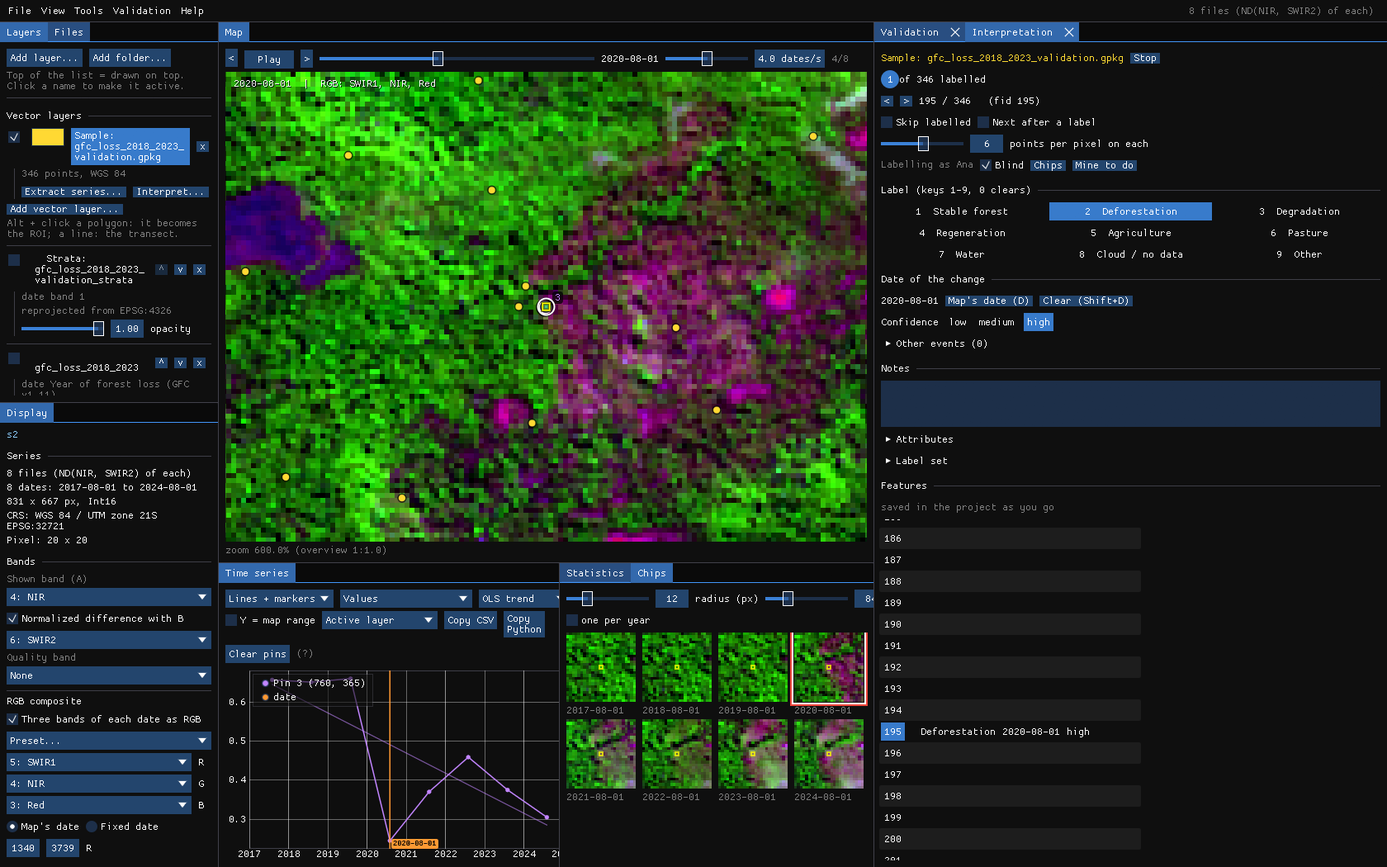
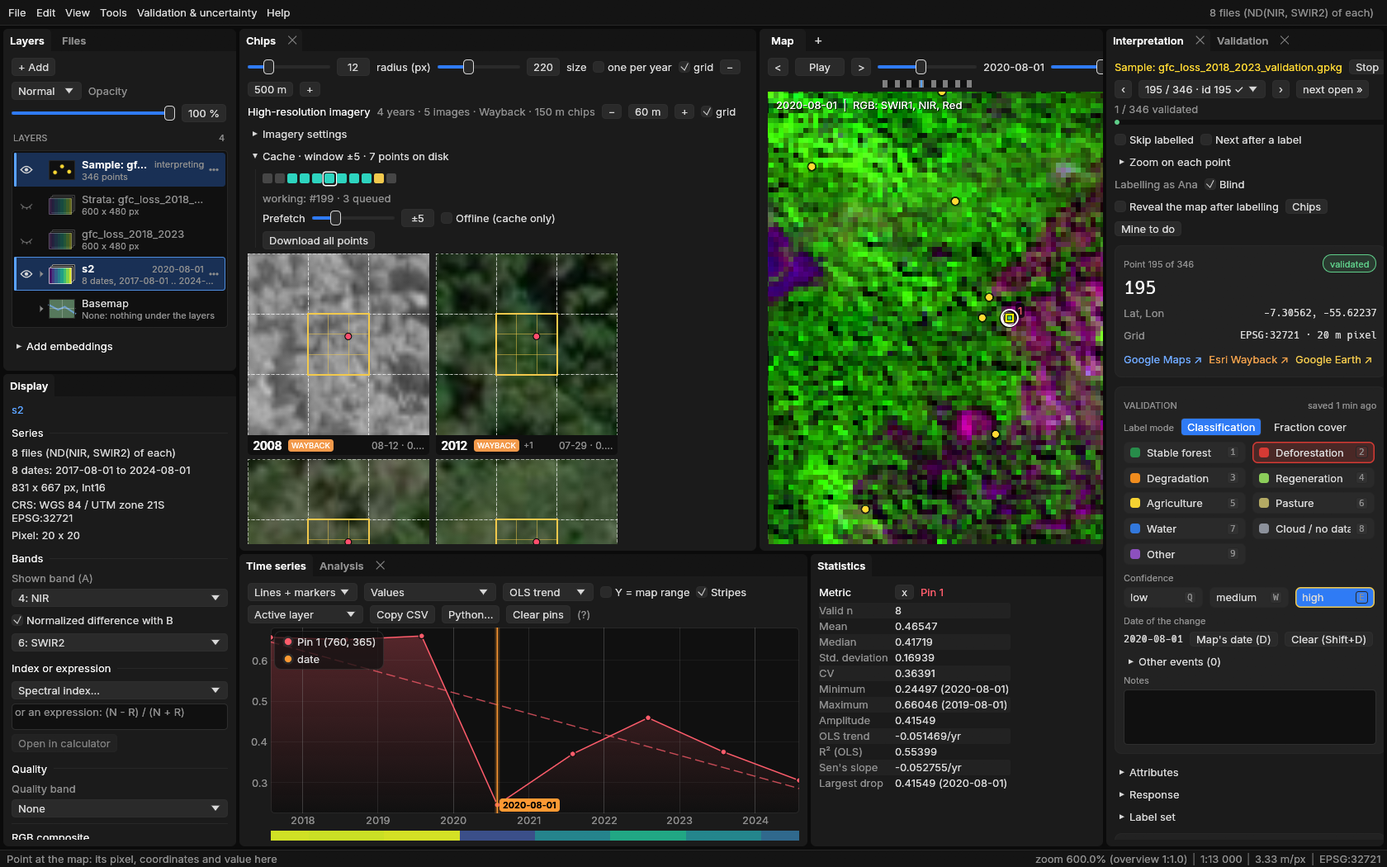
The validation guide's interpretation section for the new view (after Dr. Matthias Baumann's Validation Viewer): the Interpretation layout, the panel in cards, the high-resolution cards (the pixel, its subgrid, the neighbours, the exact point, the WAYBACK badge, +n, the coarser zoom away from cities

diff --git a/site/validation.html b/site/validation.html
@@ -226,46 +226,83 @@
     <!-- ===================================================== -->
     <section id="interpret">
       <h2><span class="n">08</span>Interpreting the points</h2>
-      <p>The <strong>Interpretation</strong> panel takes the points one by one, as TimeSync does. The map goes to each point and outlines its pixel, the chart shows its series (a pin), and the <strong>Chips</strong> panel shows a small window around it at every date. The interpretation view is based on <a href="https://scm.cms.hu-berlin.de/baumamat/validationviewer">Validation Viewer</a> by Dr. Matthias Baumann (Humboldt-Universität zu Berlin).</p>
+      <p>The <strong>Interpretation</strong> panel takes the points one by one, as TimeSync does. The map goes to each point and outlines its pixel, the chart shows its series (a pin), and the <strong>Chips</strong> panel shows the point at every date and, on top, in high resolution, year by year. The interpretation view is based on <a href="https://scm.cms.hu-berlin.de/baumamat/validationviewer">Validation Viewer</a> by Dr. Matthias Baumann (Humboldt-Universität zu Berlin): its cards, its keys, its two ways to label and its high-resolution images come from it.</p>
+      <h3>The layout</h3>
+      <p><span class="ui">Validation &amp; uncertainty → Interpretation layout</span> arranges the window for this work: the Interpretation panel in a column on the right, the Chips panel and the map side by side, the time series below. Janus does it by itself at the first interpretation of a run; the panels are ordinary panels and can be moved as usual.</p>
       <figure class="fig">
-        <a href="assets/img/validation/06-interpretation.png"><img src="assets/img/validation/06-interpretation.png" alt="Interpreting a point: the map zoomed in on the point with its pixel outlined, at the date the clearing appears; the chart shows the NBR falling; the Chips panel shows the point at every date; the Interpretation panel shows the label Deforestation, its date and a high confidence." width="1680" height="1050" loading="lazy"></a>
-        <figcaption><b>Point 195</b>: forest until 2019, cleared in the 2020 image. The NBR drops on the chart, the chips show the clearing, and it is labelled <em>Deforestation</em>, dated 2020, high confidence.</figcaption>
+        <a href="assets/img/validation/06-interpretation.png"><img src="assets/img/validation/06-interpretation.png" alt="The interpretation layout: the Chips panel at the left with the cache card and the first high-resolution cards, the map zoomed in on the point with its pixel outlined, the chart below with the NBR falling, and the Interpretation panel at the right with the label Deforestation, its date and a high confidence." width="1680" height="1050" loading="lazy"></a>
+        <figcaption><b>Point 195</b>: forest until 2019, cleared in the 2020 image. The NBR drops on the chart, the high-resolution cards show the forest and the clearing, and the point is labelled <em>Deforestation</em>, dated 2020, high confidence.</figcaption>
       </figure>
+      <h3>The panel, in cards</h3>
       <div class="fig-pair">
         <figure class="fig">
-          <a href="assets/img/validation/06-interpretation-panel.png"><img src="assets/img/validation/06-interpretation-panel.png" alt="The Interpretation panel: the point's number, the label set with keys 1 to 9, the date of the change, the confidence, notes and other events." loading="lazy"></a>
-          <figcaption><b>Interpretation panel.</b> The label, its date and confidence.</figcaption>
+          <a href="assets/img/validation/06-interpretation-panel.png"><img src="assets/img/validation/06-interpretation-panel.png" alt="The Interpretation panel: the list and the next open button, the Point card with its coordinates and links to Google Maps, Esri Wayback and Google Earth, the Validation card with the label mode, the nine classes in their colours with keys 1 to 9, the confidence, the date of the change and the notes." loading="lazy"></a>
+          <figcaption><b>Interpretation panel.</b> The navigation on top, then the Point and Validation cards.</figcaption>
         </figure>
         <figure class="fig">
-          <a href="assets/img/validation/06-interpretation-chips.png"><img src="assets/img/validation/06-interpretation-chips.png" alt="The Chips panel: the same small window around the point at each of the eight dates, the point's pixel outlined; the forest turns to bare land." loading="lazy"></a>
-          <figcaption><b>Chips.</b> The point at every date, in the map's colours.</figcaption>
+          <a href="assets/img/validation/06-interpretation-chips.png"><img src="assets/img/validation/06-interpretation-chips.png" alt="The Chips panel: the cache card with a square for each point read ahead, and the first two high-resolution cards, 2008 and 2012, each with the yellow pixel, its 3 by 3 subgrid, the red dot of the point and the orange WAYBACK badge." loading="lazy"></a>
+          <figcaption><b>Chips.</b> The cache card and the first Wayback cards.</figcaption>
         </figure>
+      </div>
+      <ul>
+        <li><strong>Navigation</strong>: <span class="ui">‹</span> and <span class="ui">›</span>, the list of points (a tick marks those done) and <span class="ui">next open</span>, the next point still without your label. <span class="ui">Skip labelled</span> makes the arrows pass the points already labelled; <span class="ui">Next after a label</span> moves on by itself once a point has its label. <span class="ui">Mine to do</span> (with a project) narrows the list to the points you have not labelled, and the bar under the arrows counts how many are validated.</li>
+        <li><strong>Point</strong>: its number, its state, its coordinates and its pixel's grid, and links to look at the place in Google Maps, Esri Wayback and Google Earth.</li>
+        <li><strong>Validation</strong>: the classes, each in its own colour and with its key; the confidence (low, medium, high); the date of the change; other events; and notes. <span class="ui">Label set</span> edits the classes and their colours.</li>
+        <li><strong>Keys</strong>: a card at the bottom lists the keys, the table below too.</li>
+      </ul>
+      <p>With a project, <span class="ui">Blind</span> keeps the map assessed and the strata hidden. <span class="ui">Reveal the map after labelling</span> (available while blind) lets the Point card show the map's class at the point once you have labelled it, and whether it agrees: you look at the images first and at the map after.</p>
+      <h3>High-resolution imagery</h3>
+      <p>On top of the Chips panel, one card a year shows the point from the <strong>Esri World Imagery Wayback</strong> archive: the latest image of that year inside the months chosen (<span class="ui">Imagery settings → Phenology months</span>; none chosen, the year's last image), 150 m wide by default (<span class="ui">Chip size</span>). Below them are the cards of the cube, at every date of the series. All the cards share one zoom and one pan.</p>
+      <ul>
+        <li>The <strong>yellow square</strong> is the point's pixel in the cube (a Sentinel-2 pixel of 20 m, say); the thin <strong>subgrid</strong> inside it cuts it in 3 &times; 3; the dashed lines are the neighbouring pixels; the <strong>red dot</strong> is the exact point. <span class="ui">grid</span> (or <kbd>G</kbd>) shows and hides the lines.</li>
+        <li>The orange <strong>WAYBACK</strong> badge marks an image from the archive, with its date and, when Esri gives it, its resolution and sensor on the right. <strong>+n</strong> says that n more images of the year exist; the lightbox shows them.</li>
+        <li>Away from cities, Wayback often has no tiles at the finest zoom. The card then shows the image from a coarser zoom, so it is blurrier: the caption says <code>z17</code> (the zoom) and the ground size of a pixel, and the lightbox explains it in a line.</li>
+      </ul>
+      <p>The images are Esri's: they are used under the terms of use of Esri World Imagery and its Wayback service, and they carry its attribution, <em>Esri, Maxar, Earthstar Geographics, and the GIS User Community</em>, shown in the lightbox. Janus asks for them one point at a time and keeps what it fetched on disk.</p>
+      <h3>Zoom, pan, and the lightbox</h3>
+      <p><kbd>Ctrl</kbd> + wheel over a card zooms every card at once, a drag pans them all, and the number between <span class="ui">&minus;</span> and <span class="ui">+</span> (the visible width) resets the zoom with a click. A click on a high-resolution card opens the <strong>lightbox</strong>: every image of that year, large, with the same pixel, subgrid and point, the date, the release and the sensor. <kbd>←</kbd> / <kbd>→</kbd> go through the images of the year, <kbd>↑</kbd> / <kbd>↓</kbd> to the previous / next year, <kbd>Esc</kbd> closes it. A strip of the year's thumbnails jumps to an image.</p>
+      <figure class="fig">
+        <a href="assets/img/validation/06-interpretation-lightbox.png"><img src="assets/img/validation/06-interpretation-lightbox.png" alt="The lightbox over the interpretation layout: the Wayback image of 2020-07-06 of point 195, large, with the 20 m pixel in yellow, its 3 x 3 subgrid, the neighbouring pixels dashed and the exact point in red; under it the date, 0.50 m, Vivid WV02, a line saying the image comes from zoom 17 and is blurrier, the release and Esri's attribution, and the year's one thumbnail." width="1680" height="1050" loading="lazy"></a>
+        <figcaption><b>The lightbox.</b> Point 195 in July 2020, a month before the clearing shows on Sentinel-2: still forest. Wayback has no finer zoom here, so the image is blurry.</figcaption>
+      </figure>
+      <p>The cards of the cube have a band combination, as in Validation Viewer: <span class="ui">Map</span> (the layer's own colours), <span class="ui">RGB</span>, <span class="ui">CIR</span> (NIR, red, green) and <span class="ui">SWIR</span> (SWIR1, NIR, red), the ones the cube's bands allow.</p>
+      <h3>Reading ahead, the cache, and offline</h3>
+      <p>The <span class="ui">Cache</span> card has a square for each point around the current one: grey, waiting; yellow, being fetched; blue-green, on disk; red, failed or not downloaded. <span class="ui">Prefetch ±n</span> says how many points on each side are made ready, nearest first, so that moving on is immediate. Everything fetched stays on disk. <span class="ui">Offline (cache only)</span> sends no request to Esri: a card for what is not on disk says <em>not downloaded</em>. <span class="ui">Download all points</span> fetches the listing and tiles of every point in the layer, in the background and one point at a time, so that the whole sample can be interpreted without a connection. It takes a while for a sample of hundreds of points, and it can run while you work.</p>
+      <div class="note">
+        <p class="h">Esri's service can be slow</p>
+        <p>The service that dates the Wayback releases sometimes hangs. Janus waits a few seconds, does not insist, and shows the cards it has; a point whose dates are incomplete is asked again later.</p>
       </div>
       <h3>The keys</h3>
       <div class="tbl-wrap">
         <table class="tbl keys">
           <thead><tr><th>Key</th><th>What it does</th></tr></thead>
           <tbody>
-            <tr><td><kbd>←</kbd> / <kbd>→</kbd></td><td>The previous / next point, as in Validation Viewer (also <kbd>Shift</kbd>+<kbd>N</kbd> / <kbd>N</kbd>, Page Up / Page Down). <span class="ui">Mine to do</span> keeps only the points you have not labelled.</td></tr>
+            <tr><td><kbd>←</kbd> / <kbd>→</kbd></td><td>The previous / next point (also <kbd>Shift</kbd>+<kbd>N</kbd> / <kbd>N</kbd>, <kbd>Page&nbsp;Up</kbd> / <kbd>Page&nbsp;Down</kbd>). With <span class="ui">Skip labelled</span>, only the points without a label.</td></tr>
             <tr><td><kbd>O</kbd></td><td>The next point still open (without your label), round the end of the list: <span class="ui">next open</span> in the panel.</td></tr>
-            <tr><td><kbd>1</kbd>–<kbd>9</kbd></td><td>A label of the label set: Stable forest, Deforestation, Degradation, Regeneration, Agriculture, Pasture, Water, Cloud / no data, Other (edit it, with each label's colour, under <span class="ui">Label set</span>). <kbd>0</kbd> clears it.</td></tr>
-            <tr><td><kbd>[</kbd> / <kbd>]</kbd></td><td>The previous / next date on the map; a click on the chart or on a chip goes to its date. (Without an interpretation going, the arrows do this too.)</td></tr>
-            <tr><td><kbd>D</kbd></td><td>The date of the change is the date on the map (double click a chip does the same). <kbd>Shift</kbd>+<kbd>D</kbd> clears it.</td></tr>
+            <tr><td><kbd>1</kbd>–<kbd>9</kbd></td><td>A label of the label set: Stable forest, Deforestation, Degradation, Regeneration, Agriculture, Pasture, Water, Cloud / no data, Other. <kbd>0</kbd> clears it.</td></tr>
             <tr><td><kbd>Q</kbd> / <kbd>W</kbd> / <kbd>E</kbd></td><td>Confidence: low, medium, high (also <kbd>Shift</kbd>+<kbd>1</kbd> / <kbd>2</kbd> / <kbd>3</kbd>).</td></tr>
+            <tr><td><kbd>[</kbd> / <kbd>]</kbd></td><td>The previous / next date on the map; a click on the chart or on a chip goes to its date. (Without an interpretation going, the arrows do this too.)</td></tr>
+            <tr><td><kbd>D</kbd></td><td>The date of the change is the date on the map (a double click on a chip does the same). <kbd>Shift</kbd>+<kbd>D</kbd> clears it.</td></tr>
             <tr><td><kbd>Shift</kbd>+<kbd>E</kbd></td><td>Another event at the map's date: a point degraded in 2019, then cleared in 2022, keeps both.</td></tr>
             <tr><td><kbd>Tab</kbd> / <kbd>Shift</kbd>+<kbd>Tab</kbd></td><td>With <em>one label per year</em>: the next / previous year to label, and the map goes to that year's date (<kbd>D</kbd> and <kbd>Shift</kbd>+<kbd>E</kbd> give way to the years).</td></tr>
-            <tr><td>drag, right-drag, <kbd>X</kbd></td><td>With <em>Fraction cover</em>: drag over the cells of the pixel on a high-resolution image to paint them with the class picked (<kbd>1</kbd>–<kbd>9</kbd> or a click on the Validation card), right-drag or <kbd>X</kbd> over a cell to erase it; <kbd>Shift</kbd>+drag, or a drag outside the pixel, pans.</td></tr>
+            <tr><td><kbd>G</kbd></td><td>Shows or hides the grid on the cards (Ctrl+G is the app's own).</td></tr>
+            <tr><td>drag, right-drag, <kbd>X</kbd></td><td>With <em>Fraction cover</em>: drag over the cells of the pixel on an image to paint them with the class picked, right-drag or <kbd>X</kbd> over a cell to erase it; <kbd>Shift</kbd>+drag, or a drag outside the pixel, pans.</td></tr>
+            <tr><td>In the lightbox</td><td><kbd>←</kbd> / <kbd>→</kbd> the previous / next image of the year, <kbd>↑</kbd> / <kbd>↓</kbd> the previous / next year, <kbd>Esc</kbd> closes it.</td></tr>
           </tbody>
         </table>
       </div>
       <p>Label what is on the ground, not what the map says: the class, and for a change the date it shows up. Labels are written to the GeoPackage a second after each change, so closing Janus loses nothing. If an image cannot tell (clouds, a pixel on an edge), say so with <em>Cloud / no data</em> or <em>Other</em> and a note: those points are left out of the estimates, and the report counts them.</p>
-            <h3>One label per point, or one per year</h3>
+      <h3>One label per point, or one per year</h3>
       <p>The <span class="ui">Response</span> of a design is <em>one label per point</em> (a class and the date of the change) or <em>one label per year</em>, as in Validation Viewer: the Validation card shows a bar of years (by default the years of the cube's dates; type them as <code>2018-2023</code>, <code>2017, 2019, 2021-2024</code> or <code>2000-2020/5</code>), each with its class and its confidence, and <span class="ui">n/a</span> for a year that cannot be judged. <kbd>Tab</kbd> moves to the next year and the map to its date; a point is <em>validated</em> when every year has an answer, and the notes stay by point. The estimates read each point as before: if some year has a label that the map's translation calls change, the label of the first such year dated that year, else the last class; a point with a year left open has no reference yet. Export gives a row for each point and year (CSV) and <code>v_class_&lt;year&gt;</code> / <code>v_conf_&lt;year&gt;</code> columns (GeoPackage). Projects made before this open as one label per point.</p>
       <h3>Fraction cover</h3>
-      <p>Besides <em>Classification</em> (one class for the pixel) the Validation card has Validation Viewer's second label mode, <span class="ui">Fraction cover</span>, with a grid of <em>n</em> &times; <em>n</em> cells in the pixel (2 to 10, 5 by default; kept in the project). The grid is drawn over every image of the Chips panel, the Wayback cards and the lightbox, and the cells painted are filled with their class's colour. Pick a class, then drag over the cells on an image: the cells take the class, and the fractions are kept <em>for the year of that image</em> (painting over a 2015 image labels 2015). Right-drag or <kbd>X</kbd> erases; outside the pixel a drag still pans, and so does <kbd>Shift</kbd>+drag; a click inside the pixel paints one cell instead of showing the date. The card lists the classes of the year painted last with their share and cells, &ldquo;k of n&sup2; cells labelled&rdquo;, and <span class="ui">Clear year</span>. A point is validated when some year has every cell painted; its reference label is the one chosen by hand, else the majority class of the latest year painted. Export adds <code>frac_&lt;class&gt;</code> (the share of the n&sup2; cells), <code>frac_n</code>, <code>frac_labelled</code> and <code>frac_year</code> to the table, and <code>&lt;name&gt;_fractions.csv</code> has a row for each point and year. Fraction cover follows Validation Viewer by Dr. Matthias Baumann (Humboldt-Universit&auml;t zu Berlin).</p>
+      <p>Besides <em>Classification</em> (one class for the pixel) the Validation card has Validation Viewer's second label mode, <span class="ui">Fraction cover</span>, with a grid of <em>n</em> &times; <em>n</em> cells in the pixel (2 to 10, 5 by default; kept in the project). The grid is drawn over every image of the Chips panel, the Wayback cards and the lightbox, and the cells painted are filled with their class's colour. Pick a class, then drag over the cells on an image: the cells take the class, and the fractions are kept <em>for the year of that image</em> (painting over a 2015 image labels 2015). Right-drag or <kbd>X</kbd> erases; outside the pixel a drag still pans, and so does <kbd>Shift</kbd>+drag; a click inside the pixel paints one cell instead of showing the date. The card lists the classes of the year painted last with their share and cells, &ldquo;k of n&sup2; cells labelled&rdquo;, and <span class="ui">Clear year</span>. A point is validated when some year has every cell painted; its reference label is the one chosen by hand, else the majority class of the latest year painted. Export adds <code>frac_&lt;class&gt;</code> (the share of the n&sup2; cells), <code>frac_n</code>, <code>frac_labelled</code> and <code>frac_year</code> to the table, and <code>&lt;name&gt;_fractions.csv</code> has a row for each point and year.</p>
+      <figure class="fig">
+        <a href="assets/img/validation/06-interpretation-chart.png"><img src="assets/img/validation/06-interpretation-chart.png" alt="The chart of point 195: the NBR from 2018 to 2024 falling to its minimum at the 2020-08-01 date, marked in orange, then recovering, with the OLS trend dashed." loading="lazy"></a>
+        <figcaption><b>The series of point 195.</b> The pin on the map is the line on the chart; the date marked is the one on the map, and <kbd>D</kbd> would make it the date of the change.</figcaption>
+      </figure>
       <div class="note">
         <p class="h">Chips</p>
-        <p>The chips use the active layer's colours, or its RGB composite. <em>One per year</em> keeps the date nearest the map's day of the year when the series has many dates. The next points' chips are read ahead, so moving on with <kbd>N</kbd> is immediate.</p>
+        <p>The cube's cards use the active layer's colours, or the combination chosen. <em>One per year</em> keeps the date nearest the map's day of the year when the series has many dates.</p>
       </div>
     </section>
 

diff --git a/site/docs-usage.html b/site/docs-usage.html
@@ -208,7 +208,7 @@ becomes the ROI with Alt + click; <strong>Extract series</strong> writes the ser
 every feature (a point's pixel, a polygon's mean) of the active or every
 visible layer to a CSV table. See <a href="#vector-layers">Vector layers</a>.</li>
 <li><strong>Interpretation</strong> (TimeSync style): go through a vector layer's features
-one by one (<code>N</code> / <code>Shift+N</code>), the map centred on each and its series on the
+one by one (<code>←</code> / <code>→</code>), the map centred on each and its series on the
 chart, and label them with keys <code>1</code>–<code>9</code>, a date of change (<code>D</code>) and notes;
 saved as you go and exported as GeoPackage, GeoJSON, Shapefile or CSV.</li>
 <li><strong>Basemap</strong> (Layers panel → Basemap): satellite imagery or a map under the
@@ -488,7 +488,7 @@ answer. Long calls report their progress and stop when the client cancels them.
 <tr><td>Save ROI as vector</td><td>View → <strong>Save ROI as vector...</strong> (or the command palette): the ROI (a rectangle or a polygon, holes kept) as a GeoPackage (<code>.gpkg</code>), GeoJSON (<code>.geojson</code>) or shapefile (<code>.shp</code>, its text in UTF-8), by the name's extension, in the active layer's CRS (a GeoJSON in WGS 84 when the CRS has no EPSG code, as RFC 7946 asks), a feature with <code>name</code>, <code>layer</code> and <code>pixels</code>; <em>Open it as a vector layer</em> adds it to the map. <strong>Alt + click</strong> it later makes the same ROI again, the same pixels inside. A project (File → Save project) keeps the ROI too</td></tr>
 <tr><td>Vector layers</td><td>File → Add vector layer..., the <strong>Layers</strong> panel (<em>Add vector layer...</em>), a drop or the command line: GeoJSON, Shapefile, GeoPackage (each of its layers), KML, FlatGeobuf, GML, GPX or a CSV of points; listed in the <strong>Layers</strong> panel with the series (a new one on top): show/hide, colour, labels (a column's values on the map), move, remove; right click → Zoom to it, Attribute table, Extract series, Interpret. Hovering a point shows its attributes (lines and polygons: hold <code>Alt</code>); see <a href="#vector-layers">Vector layers</a></td></tr>
 <tr><td>Series at points or polygons</td><td>a vector layer → <strong>Extract series...</strong>: the active layer or every visible one, a row per feature (a column per date) or a row per feature and date; CSV</td></tr>
-<tr><td>Interpretation (labelling)</td><td>a vector layer → <strong>Interpret...</strong> (the <strong>Interpretation</strong> panel): <code>N</code> / <code>Shift+N</code> (or Page Down / Page Up) next / previous feature, <code>1</code>–<code>9</code> its label, <code>0</code> clears it, <code>D</code> the date of the change (the date on the map), <code>Shift+D</code> none; notes; <em>Export table...</em></td></tr>
+<tr><td>Interpretation (labelling)</td><td>a vector layer → <strong>Interpret...</strong> (the <strong>Interpretation</strong> panel): <code>←</code> / <code>→</code> (or <code>N</code> / <code>Shift+N</code>, Page Down / Page Up) next / previous feature, <code>O</code> the next without a label, <code>1</code>–<code>9</code> its label, <code>0</code> clears it, <code>D</code> the date of the change (the date on the map), <code>Shift+D</code> none, <code>Q</code> / <code>W</code> / <code>E</code> the confidence, <code>Shift+E</code> another event, <code>[</code> / <code>]</code> the date on the map; with <em>Fraction cover</em> (Validation card): drag over the pixel's cells on an image to paint, right-drag or <code>X</code> erases; notes; <em>Export table...</em>; with <em>Response: one label per year</em> (Validation design or the panel's <em>Response</em>): a bar of years (default: the cube's years; or <code>2018-2023</code>, <code>2017, 2019, 2021-2024</code>, <code>2000-2020/5</code>), class and confidence per year, <em>n/a</em>, <code>Tab</code> / <code>Shift+Tab</code> the next / previous year, validated when every year has one; a row per point and year on export</td></tr>
 <tr><td>Animation</td><td>File → Export animation (<code>Ctrl+Shift+A</code>): dates (from, to, step), frame rate, resolution, GIF / MP4 / WebM, date stamp, legend, scale bar, pins, ROI and vector layers; see <a href="#animation-gif-mp4-webm">Animation</a></td></tr>
 <tr><td>Time</td><td><code>←</code>/<code>→</code> previous/next date, <code>P</code> play/pause, click or drag on the chart; the time bar above the map (play, the date slider, the speed) shows with a series of two dates or more, not with a single image or vector layers alone. Under the slider, each date's <strong>availability</strong>: a bar as tall as the share of the visible area that is valid on that date (no cloud, no gap; of the overview), red under half; the pointer over it gives the share, a click goes to the date</td></tr>
 <tr><td>Map mode, colormap, range</td><td><strong>Display</strong> panel, for the active layer (range is automatic 2–98%, or typed, or dragged on the histogram)</td></tr>
@@ -1458,16 +1458,31 @@ with 16 or more bands, or <code>zeit.save_raster</code>'s file of every year (ba
 their band names (<code>A00</code>, <code>A01</code>...), and opens the <strong>Embeddings</strong> panel. Zeit's
 change detection tools are disabled on them (an embedding has no seasonal
 signal), as Zeit itself refuses them.</p>
+<p><strong>Compact copies.</strong> Janus also reads the int8 copies Zeit writes with
+<code>zeit.save_raster(emb, path, compact=True)</code> (<code>--compact</code> in <code>zeit embeddings</code>),
+a GeoTIFF or COG a quarter of the size, tagged <code>ZEIT_EMBEDDING_ENCODING</code>
+(<code>aef-int8</code> for AlphaEarth, <code>scaled-int8</code> for TESSERA and the rest). They open
+as the float32 file of the same cube: the same dates and dimension bands (the
+<code>scaled-int8</code> file's per-date scale bands are not shown), and the map and the
+Embeddings panel get Zeit's decoded float32 values, NaN where there is no
+embedding; a folder of single-date files (a file a year) opens as a series. What
+reads the files band by band (the calculator, Zeit's tools, Copy Python, zonal
+statistics, warp) refuses them with a message to save float32 in Zeit. A file
+with an encoding this Janus does not know is refused with a message to update
+Janus. Janus writes them too: tick <strong>Compact (int8)</strong> in the download (below).</p>
 <p><strong>Adding them over any series.</strong> In the <strong>Layers</strong> panel, <em>Embeddings</em>: pick the
 source, the years and the cell size (10 m native; coarser cells are the mean of
 the 10 m vectors), the visible area or the ROI, and <strong>Add embeddings</strong>. The size
-is estimated first (Int16, D values per pixel and year) and very large areas are
+is estimated first (Int16, or Int8 when compact; D values per pixel and year) and very large areas are
 refused. Janus downloads them itself, no Python needed, in the background (a bar on the map tells the year and
 the time left; <strong>Tools → Tasks</strong> has its log) and writes one GeoTIFF per year
 under <code>%LOCALAPPDATA%\Janus\results\embeddings</code>; the layer is added on top,
 reprojected if the series is in another CRS, while the series you were studying
 stays active. The first AlphaEarth download fetches its file index (78 MB, once
-a month).</p>
+a month).
+<strong>Compact (int8)</strong>, off by default, writes Zeit's compact copy of each year instead of Int16
+(about half the size, the size shown is for it); the Embeddings views read it, the
+calculator and the Zeit tools do not.</p>
 <p><strong>Views</strong> (Embeddings panel):</p>
 <ul>
 <li><em>Principal components (RGB)</em>: three components (PC1-3 by default; any of the
@@ -1640,16 +1655,23 @@ one by one, as TimeSync does with Landsat. The map goes to each one (zoomed
 in to at least the <em>zoom on each</em> setting; a polygon whole) and its series is
 on the chart: a point gets a pin, a polygon becomes the ROI.</p>
 <ul>
-<li><code>N</code> / <code>Shift+N</code> (or Page Down / Page Up, or the arrows in the panel): next
-/ previous feature; <em>Skip labelled</em> goes to those without a label only;
-<em>Next after a label</em> moves on by itself.</li>
+<li><code>←</code> / <code>→</code> (or <code>N</code> / <code>Shift+N</code>, Page Down / Page Up): previous / next
+feature; <code>O</code> (or <em>next open</em> in the panel) goes to the next one without a
+label; the <em>Skip labelled</em> checkbox makes the arrows pass the labelled
+features; <em>Next after a label</em> moves on by itself. In a validation project
+<em>Mine to do</em> narrows the list to the points you have not labelled. The
+panel's cards (Point, Validation, Keys), keys and navigation follow
+Validation Viewer by Dr. Matthias Baumann (Humboldt-Universität zu Berlin).
+<em>Validation &amp; uncertainty → Interpretation layout</em> arranges the window for
+it (done once by itself at the first interpretation of a run).</li>
 <li><code>1</code>–<code>9</code>: a label of the label set (Stable forest, Deforestation,
 Degradation, Regeneration, Agriculture, Pasture, Water, Cloud / no data,
 Other by default; edit it under <em>Label set</em>); <code>0</code> clears it.</li>
-<li><code>D</code>: the date of the change is the date on the map (go to it with <code>←</code>/<code>→</code>
-or a click on the chart); <code>Shift+D</code> clears it. <em>Notes</em> for anything else.</li>
-<li><code>Shift+1</code> / <code>Shift+2</code> / <code>Shift+3</code>: the label's <em>confidence</em> (low, medium,
-high). <code>E</code> adds another <em>event</em> at the map's date (the label chosen under
+<li><code>D</code>: the date of the change is the date on the map (go to it with <code>[</code> / <code>]</code>
+or a click on the chart; with no interpretation going, the arrows do it);
+<code>Shift+D</code> clears it. <em>Notes</em> for anything else.</li>
+<li><code>Q</code> / <code>W</code> / <code>E</code> (or <code>Shift+1</code> / <code>Shift+2</code> / <code>Shift+3</code>): the label's
+<em>confidence</em> (low, medium, high). <code>Shift+E</code> adds another <em>event</em> at the map's date (the label chosen under
 <em>Other events</em>, else the feature's label): a point degraded, then cleared,
 keeps both.</li>
 <li><strong>Chips</strong> (Validation &amp; uncertainty → Chips, or <em>Chips</em> in the panel): the feature at
@@ -1657,7 +1679,43 @@ every date of the active layer, a small window around it in the map's
 colours (or its RGB composite), the feature's pixel outlined; <em>one per
 year</em> keeps the date nearest the map's day of the year. Click a chip to
 show its date on the map, double click to make it the date of the change.
-The next features' chips are read ahead.</li>
+The next features' chips are read ahead. <code>G</code> shows and hides the grid.
+The cube's cards have a band combination (Map, RGB, CIR, SWIR).</li>
+<li><strong>High-resolution imagery</strong> (top of the Chips panel; <em>Imagery settings</em>
+turns it off): one card a year from the Esri World Imagery Wayback archive
+(the latest image inside the <em>phenology months</em>, 150 m wide by default),
+with the point's pixel (yellow), its 3 x 3 subgrid, the neighbouring
+pixels (dashed) and the exact point (red dot). The WAYBACK badge marks the
+source, <code>+n</code> more images of the year; where Wayback has no tiles at the
+finest zoom (often in rural areas) the card is from a coarser zoom and its
+caption says so. <code>Ctrl</code> + wheel zooms every card, a drag pans them all; a
+click opens the <strong>lightbox</strong> with every image of the year (<code>←</code> / <code>→</code> the
+image, <code>↑</code> / <code>↓</code> the year, <code>Esc</code> closes). The <em>Cache</em> card shows the points
+read ahead (<em>Prefetch ±n</em>), <em>Offline (cache only)</em> sends no request to Esri
+and <em>Download all points</em> fetches every point of the layer in the
+background, so that the sample can be interpreted offline. The images are
+Esri's (attribution: Esri, Maxar, Earthstar Geographics, and the GIS User
+Community); their terms of use apply.</li>
+<li><strong>One label per year</strong> (<em>Response</em> in the panel, as Validation Viewer's):
+the Validation card has a bar of years, each with its class, confidence
+and <em>n/a</em>; <code>Tab</code> / <code>Shift+Tab</code> go to the next / previous year and the map to
+its date. A point is validated when every year has an answer. Export adds
+a row per point and year (CSV) or <code>v_class_&lt;year&gt;</code> / <code>v_conf_&lt;year&gt;</code>.</li>
+<li><strong>Fraction cover</strong> (the Validation card's <em>Label mode</em>, as Validation
+Viewer's): an n x n grid (2 to 10, 5 by default, kept in the project or the
+labels file) in the pixel, drawn over the chips, the Wayback cards and the
+lightbox, its painted cells filled in the class's colour. Pick the class
+(<code>1</code>–<code>9</code> or a click) and drag over the cells to paint them; right-drag or
+<code>X</code> (the cell under the cursor) erases; outside the pixel, or with <code>Shift</code>,
+a drag pans. The fractions belong to the year of the image painted over.
+The card shows the share and cells of each class of the year painted last,
+"k of n² cells labelled" and <em>Clear year</em>. A point is validated when some
+year has every cell painted (or a class label); with no class label its
+reference is the majority class of the latest year painted. Export adds
+<code>frac_&lt;class&gt;</code>, <code>frac_n</code>, <code>frac_labelled</code> and <code>frac_year</code> and a
+<code>&lt;name&gt;_fractions.csv</code> with a row per point and year (the validation report
+writes <code>&lt;project&gt;_fractions.csv</code> and <code>labels_fractions.gpkg</code>). Follows
+Validation Viewer by Dr. Matthias Baumann (Humboldt-Universität zu Berlin).</li>
 <li>The labels are saved a second after each change (in Janus' data folder,
 by file and layer): starting the interpretation of the same file again
 resumes it at the first feature without a label.</li>
@@ -1720,7 +1778,8 @@ disagreement, adjudicated), so the reference is not swayed by the maps.
 Labels describe the ground, not the map: the class, the date of the change,
 the confidence, other events, notes. They are written to the GeoPackage a
 second after each change. <em>Mine to do</em> lists the points you have not
-labelled.</p>
+labelled; <em>Reveal the map after labelling</em> (while blind) lets the Point card
+show the map's class once the point has your label.</p>
 <p><strong>Accuracy</strong> (updated with every label):</p>
 <ul>
 <li><em>Reference labels → the map's classes</em>: how each label reads for this map

diff --git a/crates/janus-app/src/shots_validation.rs b/crates/janus-app/src/shots_validation.rs
@@ -37,6 +37,8 @@ pub struct ValShots {
     phase: u8,
     /// the frame of the stage the phase began in
     phase_at: usize,
+    /// the stage's time the lightbox was ready (its modal fades in: the screenshot waits for it)
+    ready_t: f64,
 }
 
 /// The longest the interpretation stage waits for Wayback's imagery (a tour without a network goes on).
@@ -520,9 +522,11 @@ impl State {
                             }
                             sh.val.shot = true;
                             sh.val.phase_at = sh.frames;
+                            sh.val.ready_t = sh.time();
                             return None;
                         }
-                        if sh.frames < sh.val.phase_at + 4 {
+                        if sh.frames < sh.val.phase_at + 4 || sh.time() < sh.val.ready_t + 1.5 {
+                            ctx.request_repaint();
                             return None;
                         }
                         sh.shoot("06-interpretation-lightbox", &[]);

diff --git a/crates/janus-app/src/highres.rs b/crates/janus-app/src/highres.rs
@@ -5,7 +5,7 @@
 //!
 //! Around the current point the cards of the nearest ones are made ready too (the listing, then the tiles of one image
 //! a year, onto the disk; nothing but the current point's cards is kept as textures), the listings are kept on disk
-//! for a month, an Offline switch lets nothing out to the network, and "Download all points" does the same for every
+//! for a month (a day when some dates are missing), an Offline switch lets nothing out to the network, and "Download all points" does the same for every
 //! point of the layer being interpreted.
 //!
 //! The high-resolution cards and the lightbox, and the prefetch of the points around the current one, the cache on

diff --git a/docs/usage.md b/docs/usage.md
@@ -1597,9 +1597,13 @@ read as longitude and latitude).
   on the chart: a point gets a pin, a polygon becomes the ROI.
   - `←` / `→` (or `N` / `Shift+N`, Page Down / Page Up): previous / next
     feature; `O` (or *next open* in the panel) goes to the next one without a
-    label; *Skip labelled* goes to those without a label only; *Next after a
-    label* moves on by itself. The panel's cards, keys and navigation follow
+    label; the *Skip labelled* checkbox makes the arrows pass the labelled
+    features; *Next after a label* moves on by itself. In a validation project
+    *Mine to do* narrows the list to the points you have not labelled. The
+    panel's cards (Point, Validation, Keys), keys and navigation follow
     Validation Viewer by Dr. Matthias Baumann (Humboldt-Universität zu Berlin).
+    *Validation & uncertainty → Interpretation layout* arranges the window for
+    it (done once by itself at the first interpretation of a run).
   - `1`–`9`: a label of the label set (Stable forest, Deforestation,
     Degradation, Regeneration, Agriculture, Pasture, Water, Cloud / no data,
     Other by default; edit it under *Label set*); `0` clears it.
@@ -1615,7 +1619,28 @@ read as longitude and latitude).
     colours (or its RGB composite), the feature's pixel outlined; *one per
     year* keeps the date nearest the map's day of the year. Click a chip to
     show its date on the map, double click to make it the date of the change.
-    The next features' chips are read ahead.
+    The next features' chips are read ahead. `G` shows and hides the grid.
+    The cube's cards have a band combination (Map, RGB, CIR, SWIR).
+  - **High-resolution imagery** (top of the Chips panel; *Imagery settings*
+    turns it off): one card a year from the Esri World Imagery Wayback archive
+    (the latest image inside the *phenology months*, 150 m wide by default),
+    with the point's pixel (yellow), its 3 x 3 subgrid, the neighbouring
+    pixels (dashed) and the exact point (red dot). The WAYBACK badge marks the
+    source, `+n` more images of the year; where Wayback has no tiles at the
+    finest zoom (often in rural areas) the card is from a coarser zoom and its
+    caption says so. `Ctrl` + wheel zooms every card, a drag pans them all; a
+    click opens the **lightbox** with every image of the year (`←` / `→` the
+    image, `↑` / `↓` the year, `Esc` closes). The *Cache* card shows the points
+    read ahead (*Prefetch ±n*), *Offline (cache only)* sends no request to Esri
+    and *Download all points* fetches every point of the layer in the
+    background, so that the sample can be interpreted offline. The images are
+    Esri's (attribution: Esri, Maxar, Earthstar Geographics, and the GIS User
+    Community); their terms of use apply.
+  - **One label per year** (*Response* in the panel, as Validation Viewer's):
+    the Validation card has a bar of years, each with its class, confidence
+    and *n/a*; `Tab` / `Shift+Tab` go to the next / previous year and the map to
+    its date. A point is validated when every year has an answer. Export adds
+    a row per point and year (CSV) or `v_class_<year>` / `v_conf_<year>`.
   - **Fraction cover** (the Validation card's *Label mode*, as Validation
     Viewer's): an n x n grid (2 to 10, 5 by default, kept in the project or the
     labels file) in the pixel, drawn over the chips, the Wayback cards and the
@@ -1692,7 +1717,8 @@ disagreement, adjudicated), so the reference is not swayed by the maps.
 Labels describe the ground, not the map: the class, the date of the change,
 the confidence, other events, notes. They are written to the GeoPackage a
 second after each change. *Mine to do* lists the points you have not
-labelled.
+labelled; *Reveal the map after labelling* (while blind) lets the Point card
+show the map's class once the point has your label.
 
 **Accuracy** (updated with every label):
 

diff --git a/README.md b/README.md
@@ -195,7 +195,9 @@ pixel and point overlay, the Esri Wayback imagery, the point and validation
 cards) is based on
 [Validation Viewer](https://scm.cms.hu-berlin.de/baumamat/validationviewer)
 by Dr. Matthias Baumann (Humboldt-Universität zu Berlin), GPL-2.0-or-later,
-used here under GPL-3.0-or-later; parts of its code are ported to Rust.
+used here under GPL-3.0-or-later; parts of its code are ported to Rust. The
+Wayback images themselves are Esri's (Esri, Maxar, Earthstar Geographics, and
+the GIS User Community) and their terms of use apply.
 
 ---
 
